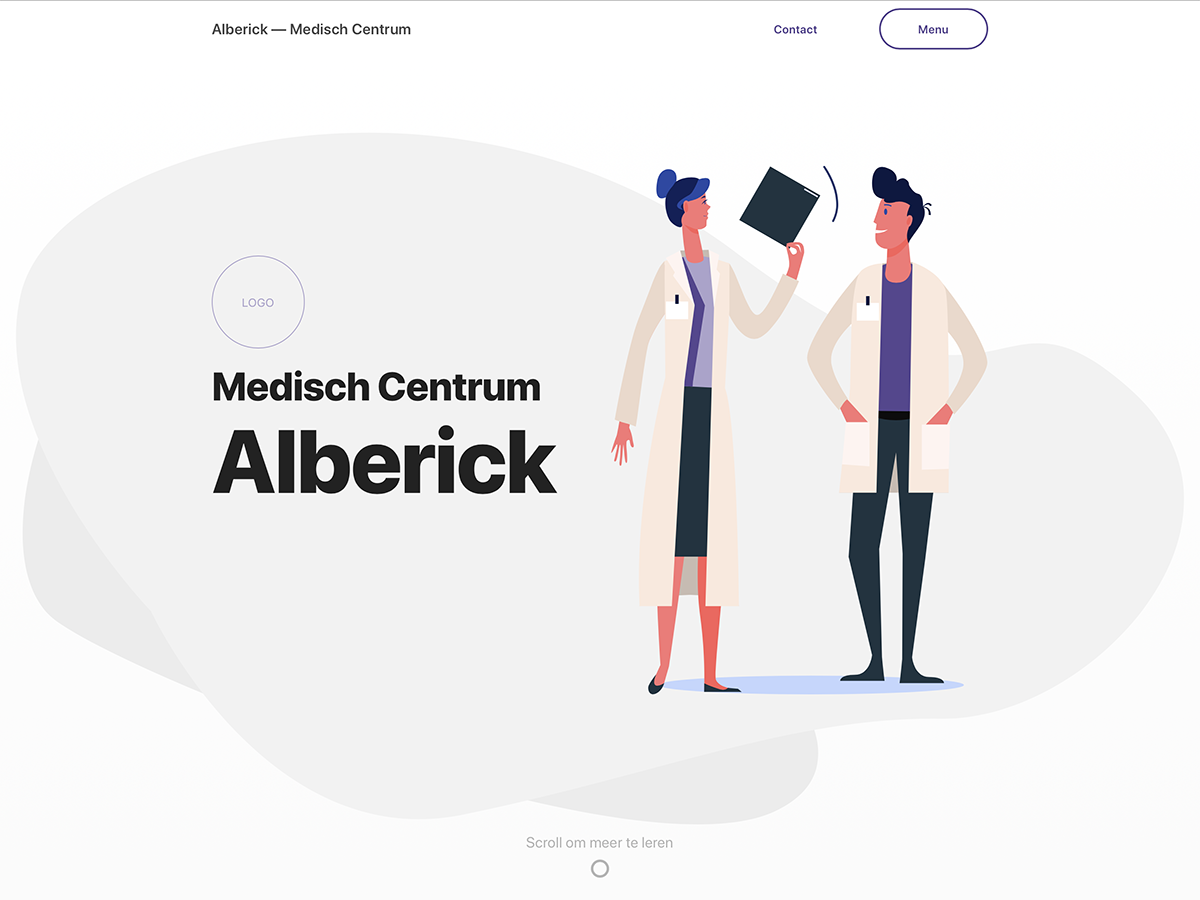
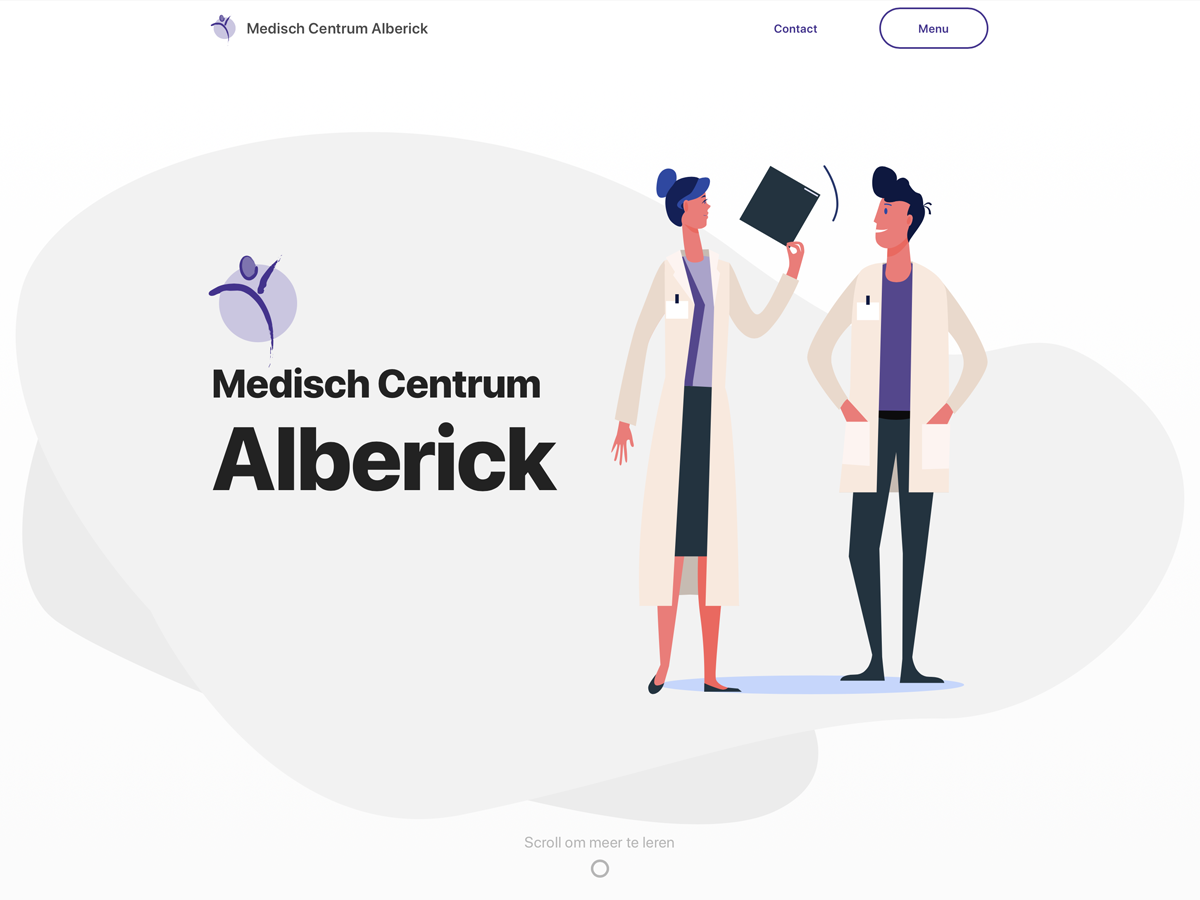
version 0.3.1

diff --git a/src/App.vue b/src/App.vue
@@ -4,8 +4,13 @@
   <nav class="navbar is-fixed-top" role="navigation" aria-label="main navigation" id="navbar">
     <div class="container">
       <div class="navbar-brand">
-        <router-link class="navbar-item is-size-7-rem" to="/">
-          Medisch Centrum Alberick
+        <router-link class="navbar-item is-size-7-rem navbar-logo-button" to="/" role="button">
+          <div class="navbar-logo">
+            <div class="image">
+              <img src="@/assets/alberick-medisch-centrum-primary-logo-centered.svg" alt="Medisch Centrum Alberick Logo SVG">
+            </div>
+          </div>
+          <div>Medisch Centrum Alberick</div>
         </router-link>
 
         <a role="button" class="navbar-burger burger" aria-label="menu" :aria-expanded="displayMenu" v-on:click="toggleMenu()">
@@ -40,7 +45,7 @@
     <div class="container has-text-centered is-size-7">
       <p>
         ©
-        <router-link to="/" class="link-hidden">Alberick</router-link> 2020.
+        <router-link to="/" class="link-hidden">Medisch Centrum Alberick</router-link> 2020.
         <router-link to="/privacy-policy">Privacy &amp; Cookies</router-link>.
         <router-link to="/terms">T&amp;C's</router-link>. Website by
         <a href="https://boutinov.com" target="_blank">Boutinov.com</a>. Artwork design by
@@ -76,14 +81,14 @@ export default {
   methods: {
     toggleContact() {
       if (!this.displayContact) {
-        this.$router.push("contact");
+        this.$router.push("/contact");
       } else {
         this.$router.go(-1);
       }
     },
     toggleMenu() {
       if (!this.displayMenu) {
-        this.$router.push("menu");
+        this.$router.push("/menu");
       } else {
         this.$router.go(-1);
       }
@@ -96,7 +101,7 @@ export default {
 .navbar-item {
     font-weight: $weight-semibold;
 }
-footer.footer {
+#footer {
     a[href] {
         color: $primary;
     }
@@ -104,6 +109,28 @@ footer.footer {
 
 .navbar .button.is-white {
     background-color: rgba(255,255,255,0);
+}
+
+.navbar-logo-button {
+  display: flex;
+  flex-direction:row;
+  align-items: center;
+}
+
+$navbar-logo-width: 1.75em;
+$navbar-logo-negative-margin: 0.20652173913;
+.navbar-logo {
+  width: $navbar-logo-width;
+  height: $navbar-logo-width;
+  margin-right: 0.62em;
+  .image {
+      margin: $navbar-logo-width * $navbar-logo-negative-margin * -1;
+      width: $navbar-logo-width * (1 + 2 * $navbar-logo-negative-margin);
+      height: $navbar-logo-width * (1 + 2 * $navbar-logo-negative-margin);
+      img {
+        max-height: none;
+      }
+  }
 }
 
 @media (max-width: $tablet - 1px) {

diff --git a/src/templates/home/Home.vue b/src/templates/home/Home.vue
@@ -1,15 +1,15 @@
 <template>
 <div class="alternate-sections is-even">
+  <hero-section v-bind:about="page.about" />
   <div v-for="(section, index) in page.sections" v-bind:key="index">
-    <hero-section v-if="section.type === 'hero'" v-bind:about="page.about" />
     <welcome-section v-if="section.type === 'welcome'" v-bind:contact="page.contact" v-bind:section="section" />
     <facebook-section v-if="section.type === 'facebook'" v-bind:contact="page.contact" v-bind:section="section" />
     <numbers-section v-if="section.type === 'numbers'" v-bind:section="section" />
     <map-section v-if="section.type === 'map'" v-bind:section="section" />
     <workshops-section v-if="section.type === 'workshops'" v-bind:section="section" />
     <apotheek-section v-if="section.type === 'apotheek'" v-bind:section="section" />
-    <logos-section v-if="section.type === 'logos'" />
   </div>
+  <logos-section />
 </div>
 </template>
 
@@ -38,15 +38,15 @@ export default {
   props: {
     page: Object,
   },
-  created() {
-    // If first section is not Hero, add it. (have to check because this
-    // directly) manipulates the cached value
-    if (this.page.sections[0].type !== 'hero') {
-      this.page.sections.unshift({
-        type: 'hero'
-      });
-    }
-  }
+  // created() {
+  //   // If first section is not Hero, add it. (have to check because this
+  //   // directly) manipulates the cached value
+  //   if (this.page.sections[0].type !== 'hero') {
+  //     this.page.sections.unshift({
+  //       type: 'hero'
+  //     });
+  //   }
+  // }
 }
 </script>
 

diff --git a/public/index.html b/public/index.html
@@ -12,6 +12,13 @@
   <script src="https://kit.fontawesome.com/802ce6f7d8.js" crossorigin="anonymous"></script>
   <link rel="stylesheet" href="https://cdnjs.cloudflare.com/ajax/libs/animate.css/3.7.2/animate.min.css">
   <?php wp_head(); ?>
+  <link rel="apple-touch-icon" sizes="180x180" href="<%= BASE_URL %>apple-touch-icon.png">
+  <link rel="icon" type="image/png" sizes="32x32" href="<%= BASE_URL %>favicon-32x32.png">
+  <link rel="icon" type="image/png" sizes="16x16" href="<%= BASE_URL %>favicon-16x16.png">
+  <link rel="manifest" href="<%= BASE_URL %>site.webmanifest">
+  <link rel="mask-icon" href="<%= BASE_URL %>safari-pinned-tab.svg" color="#462f91">
+  <meta name="msapplication-TileColor" content="#ffffff">
+  <meta name="theme-color" content="#ffffff">
 </head>
 
 <body>
@@ -60,25 +67,31 @@
                 recursivelyRender($key, $value);
               }
 
-    		?></div>
-      </article> <?php endwhile; ?>
+    		?>
+        </div>
+      </article>
+      <?php endwhile; ?>
     </main>
-    <?php if (WP_DEBUG) { ?><style>
+    <?php if (WP_DEBUG) { ?>
+    <style>
       section {
         border: 1px solid #eeeeee;
         padding: 1.5rem 2rem;
         margin-bottom: 3rem;
       }
+
       .debug {
         padding: 1.5rem 2rem;
         background-color: #eeeeee;
         font-size: 2rem;
         margin-bottom: 3rem;
       }
+
       pre {
         font-size: 1rem;
       }
-    </style><?php } ?>
+    </style>
+    <?php } ?>
   </noscript>
   <div id="app"></div>
   <!-- built files will be auto injected -->

diff --git a/src/templates/home/Hero.vue b/src/templates/home/Hero.vue
@@ -4,7 +4,11 @@
     <div class="container">
       <div class="columns align-items-center">
         <div class="column is-6">
-          <div id="hero-logo">LOGO</div>
+          <figure id="hero-logo">
+            <div class="image">
+              <img src="@/assets/alberick-medisch-centrum-primary-logo-centered.svg" alt="Medisch Centrum Alberick Logo SVG">
+            </div>
+          </figure>
           <div class="title is-2">Medisch Centrum</div>
           <div class="title is-1">Alberick</div>
           <!-- <router-link to="#start" class="button is-primary is-large is-rounded is-hidden-mobile">Begin</router-link> -->
@@ -88,21 +92,23 @@ export default {
     margin-right: -4px;
 }
 
+$hero-logo-width: 6.25rem;
+$hero-logo-negative-margin: 0.20652173913;
 #hero-logo {
-    width: 6.25rem;
-    height: 6.25rem;
-    line-height: 6.25rem;
-    font-size: 0.75em;
-    border: 1px solid #aca2cc;
-    text-align: center;
-    border-radius: 100%;
-    color: #aca2cc;
-    margin-bottom: 1rem;
+    width: $hero-logo-width;
+    height: $hero-logo-width;
+    margin-bottom: 2rem;
     margin-left: auto;
     margin-right: auto;
 
     @media (min-width: $tablet) {
         margin-left: 0;
+    }
+
+    .image {
+        margin: $hero-logo-width * $hero-logo-negative-margin * -1;
+        width: $hero-logo-width * (1 + 2 * $hero-logo-negative-margin);
+        height: $hero-logo-width * (1 + 2 * $hero-logo-negative-margin);
     }
 }
 

diff --git a/src/templates/menu/MenuItem.vue b/src/templates/menu/MenuItem.vue
@@ -1,5 +1,5 @@
 <template>
-<router-link :to="'/'+_slug" class="menu-item image" :class="_class" :data-menu-item="slug" :style="_style" :data-background="BASE_URL+'menu-items/mi-'+_slug+'.svg'">
+<router-link :to="'/'+_slug" class="menu-item image" :class="_class" :data-menu-item="slug" :style="_style">
   <div class="has-ratio">
     <div class="menu-item-body" :class="{'has-background': !_nobackground}" v-html="title"></div>
   </div>

diff --git a/src/templates/page/Page.vue b/src/templates/page/Page.vue
@@ -3,7 +3,7 @@
   <div v-if="loading" class="hero is-fullheight">
     <div class="hero-body">
       <div class="container has-text-centered has-text-grey-light">
-        Loading...
+        Aan het laden...
       </div>
     </div>
   </div>

diff --git a/src/styles/_variables.scss b/src/styles/_variables.scss
@@ -22,7 +22,7 @@ $body-line-height: 1.5; // $title-line-height: 1.25;
 /* -- */
 $weight-bold: 800;
 /* -- */
-$purple: #574591;
+$purple: #462f91;
 $primary: $purple;
 $link: #5C3EBC;
 $secondary: #fcd87b;
